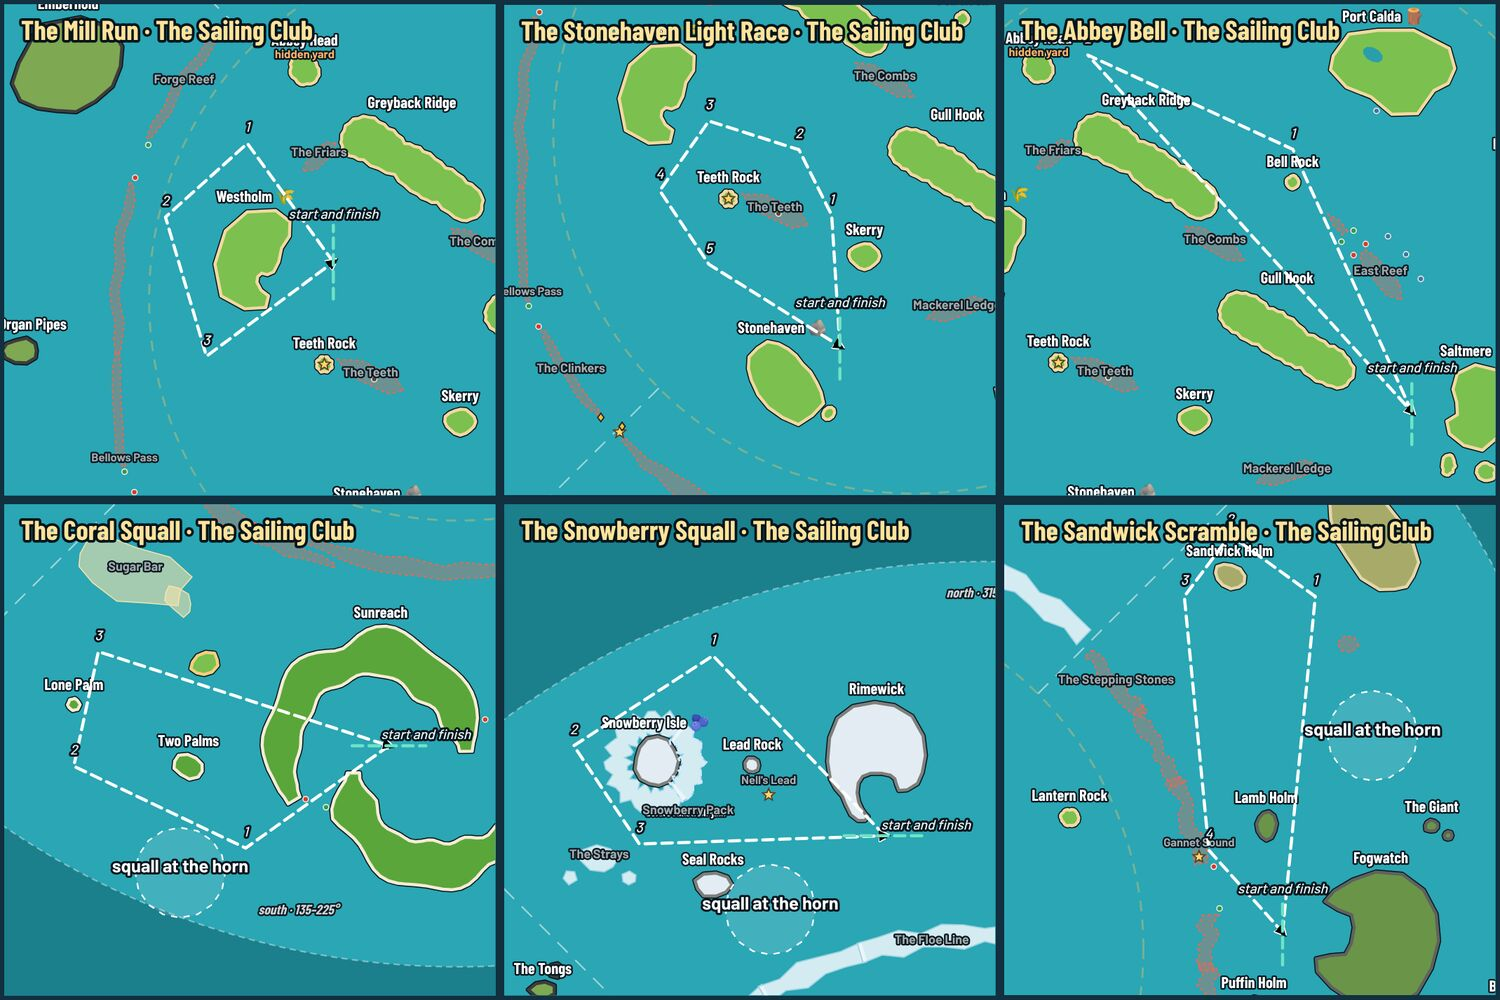
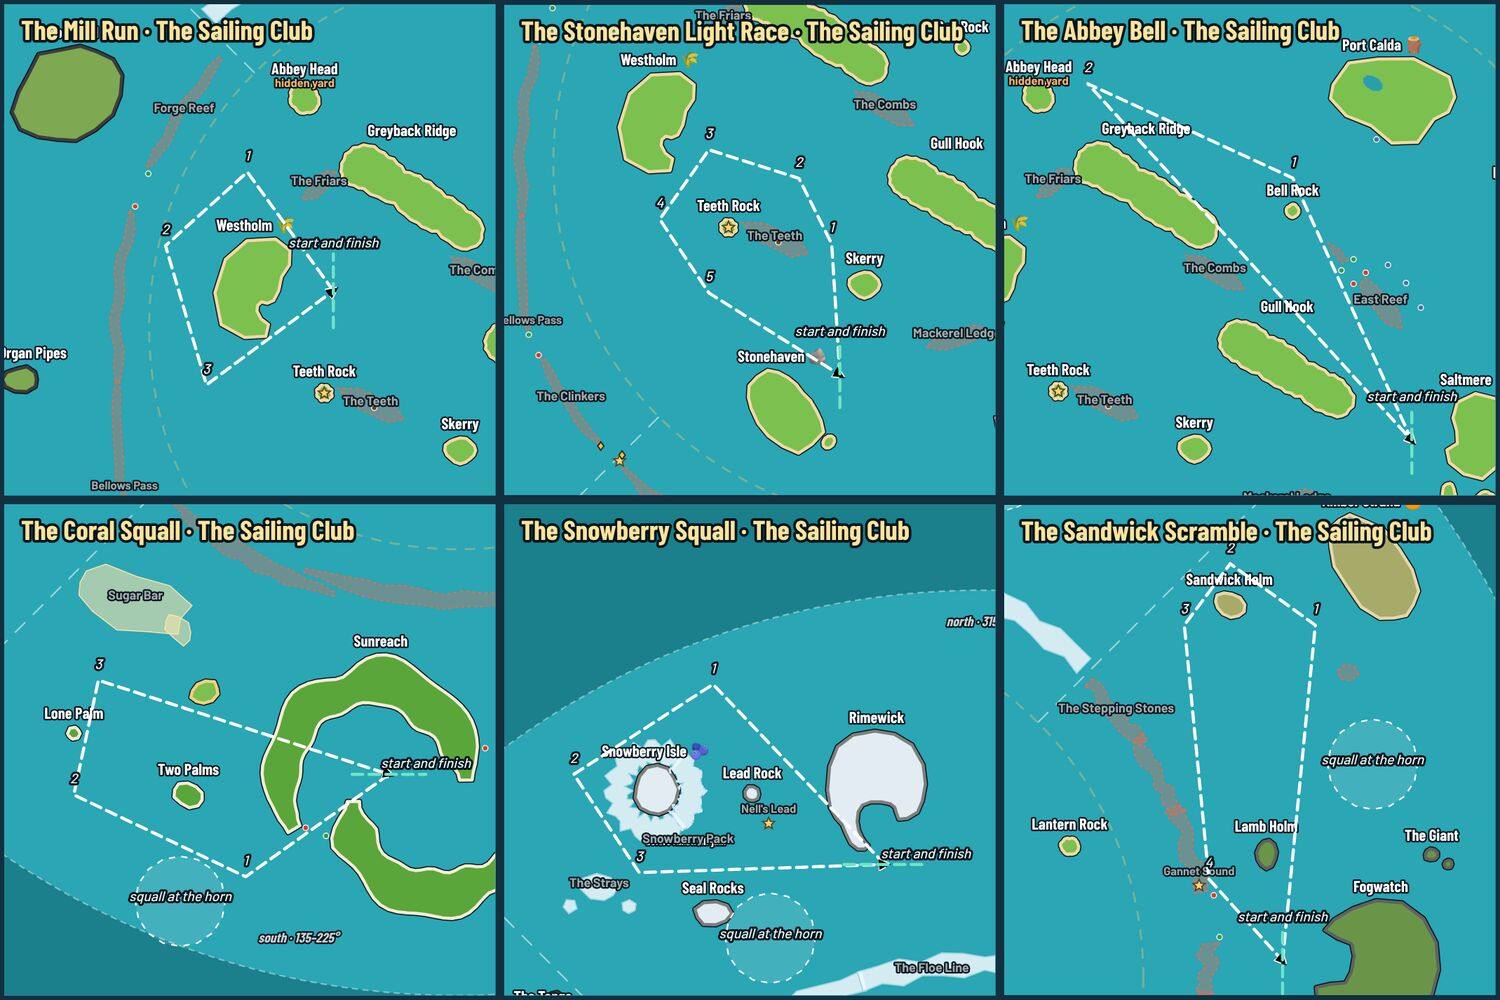
Course sheet: frame below the title, smaller squall label
Claude-Session: https://claude.ai/code/session_013jvdBubRkVRYT5eWMkWrPj

diff --git a/tools/fw/raceOverlay.ts b/tools/fw/raceOverlay.ts
@@ -28,7 +28,6 @@ export function raceOverlay(q: QuestDef, goal: Condition, file: string): number 
         Math.round(st.y + (st.radius ?? 70) * Math.sin((i * Math.PI) / 8)),
       ]),
       style: 'tint',
-      label: 'squall at the horn',
     })),
     lines: [
       {
@@ -43,7 +42,14 @@ export function raceOverlay(q: QuestDef, goal: Condition, file: string): number 
       },
       ...(same ? [] : [{ points: finish.map((p) => [p.x, p.y]), style: 'long', label: 'finish' }]),
     ],
-    labels: marks.map((m, i) => ({ at: [m.x, m.y + 14], text: String(i + 1), style: 'note' })),
+    labels: [
+      ...(q.race!.storms ?? []).map((st) => ({
+        at: [st.x, st.y],
+        text: 'squall at the horn',
+        style: 'note',
+      })),
+      ...marks.map((m, i) => ({ at: [m.x, m.y + 14], text: String(i + 1), style: 'note' })),
+    ],
   };
   writeFileSync(file, `${JSON.stringify(overlay, null, 2)}\n`);
   const all = [...start, ...finish, ...marks];
